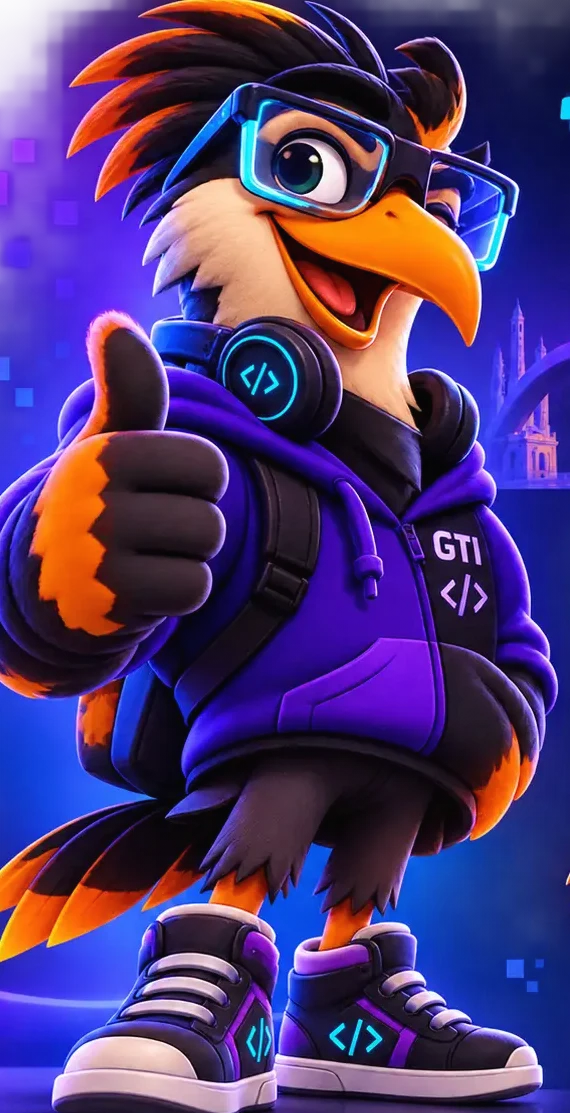
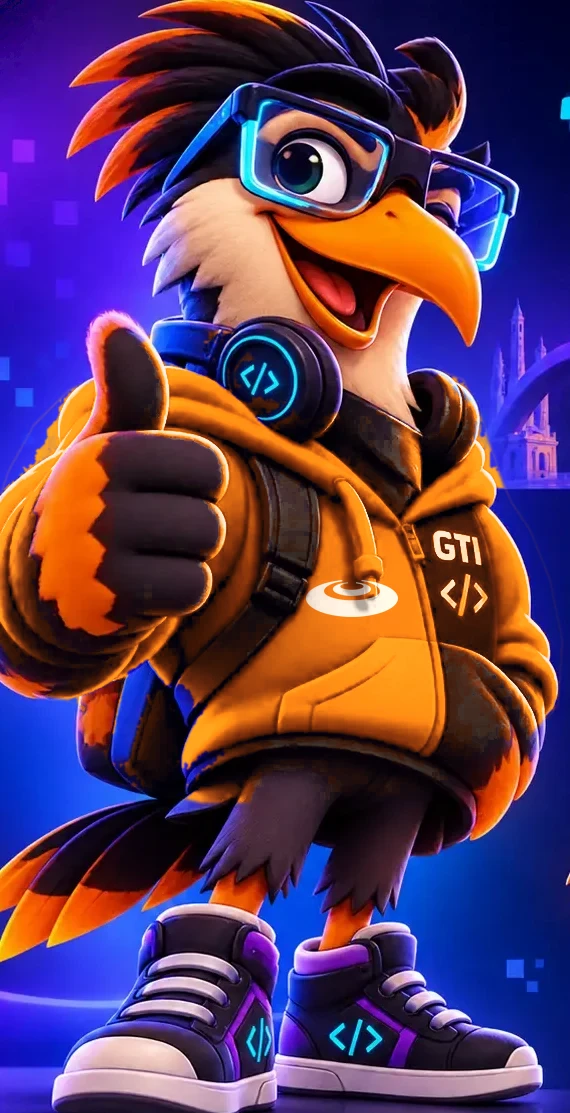
Carca com moletom laranja e símbolo do CESAR no peito
Troca o moletom roxo do mascote pelo laranja que a turma usa
(sombras #FF5C16, luzes #FEA61E) nas 5 poses e estampa o símbolo
do CESAR em branco no peito das poses em que ele aparece
(hero, comemorando e estudando). Atualiza o ?v= das imagens e
dos scripts para os navegadores carregarem a versão nova.

diff --git a/QUIZ/app/app.js b/QUIZ/app/app.js
@@ -30,11 +30,11 @@
   };
   /* Carca: o carcará tech, mascote da #TurmaGTI. Uma pose para cada momento do app. */
   const CARCA = {
-    hero: { src: "assets/carca-hero.webp", w: 570, h: 1113, alt: "Carca, o mascote carcará da turma de GTI, fazendo joinha" },
-    estudando: { src: "assets/carca-estudando.webp", w: 285, h: 285, alt: "Carca estudando no notebook" },
-    comemorando: { src: "assets/carca-comemorando.webp", w: 330, h: 289, alt: "Carca comemorando" },
-    pensando: { src: "assets/carca-pensando.webp", w: 285, h: 305, alt: "Carca pensativo" },
-    vr: { src: "assets/carca-vr.webp", w: 340, h: 305, alt: "Carca com óculos de realidade virtual" },
+    hero: { src: "assets/carca-hero.webp?v=3", w: 570, h: 1113, alt: "Carca, o mascote carcará da turma de GTI, fazendo joinha" },
+    estudando: { src: "assets/carca-estudando.webp?v=3", w: 285, h: 285, alt: "Carca estudando no notebook" },
+    comemorando: { src: "assets/carca-comemorando.webp?v=3", w: 330, h: 289, alt: "Carca comemorando" },
+    pensando: { src: "assets/carca-pensando.webp?v=3", w: 285, h: 305, alt: "Carca pensativo" },
+    vr: { src: "assets/carca-vr.webp?v=3", w: 340, h: 305, alt: "Carca com óculos de realidade virtual" },
   };
   const carca = (pose, cls = "") => { const c = CARCA[pose]; return `<img class="carca ${cls}" src="${c.src}" width="${c.w}" height="${c.h}" alt="${c.alt}" decoding="async">`; };
   const fala = (txt, cls = "") => `<p class="fala ${cls}">${txt}</p>`;

diff --git a/QUIZ/app/index.html b/QUIZ/app/index.html
@@ -10,8 +10,8 @@
   <link rel="preconnect" href="https://fonts.googleapis.com">
   <link rel="preconnect" href="https://fonts.gstatic.com" crossorigin>
   <link href="https://fonts.googleapis.com/css2?family=Poppins:wght@400;500;600;700&display=swap" rel="stylesheet">
-  <link rel="preload" as="image" href="assets/carca-hero.webp" fetchpriority="high">
-  <link rel="stylesheet" href="styles.css?v=11">
+  <link rel="preload" as="image" href="assets/carca-hero.webp?v=3" fetchpriority="high">
+  <link rel="stylesheet" href="styles.css?v=12">
 </head>
 <body>
   <a class="skip" href="#app">Pular para o conteúdo</a>
@@ -78,7 +78,7 @@
       Questões marcadas como <span class="seal seal-warn">Especialista</span> ainda não têm gabarito oficial confirmado.</p>
   </footer>
 
-  <script src="banco.js?v=11"></script>
-  <script src="app.js?v=11"></script>
+  <script src="banco.js?v=12"></script>
+  <script src="app.js?v=12"></script>
 </body>
 </html>
